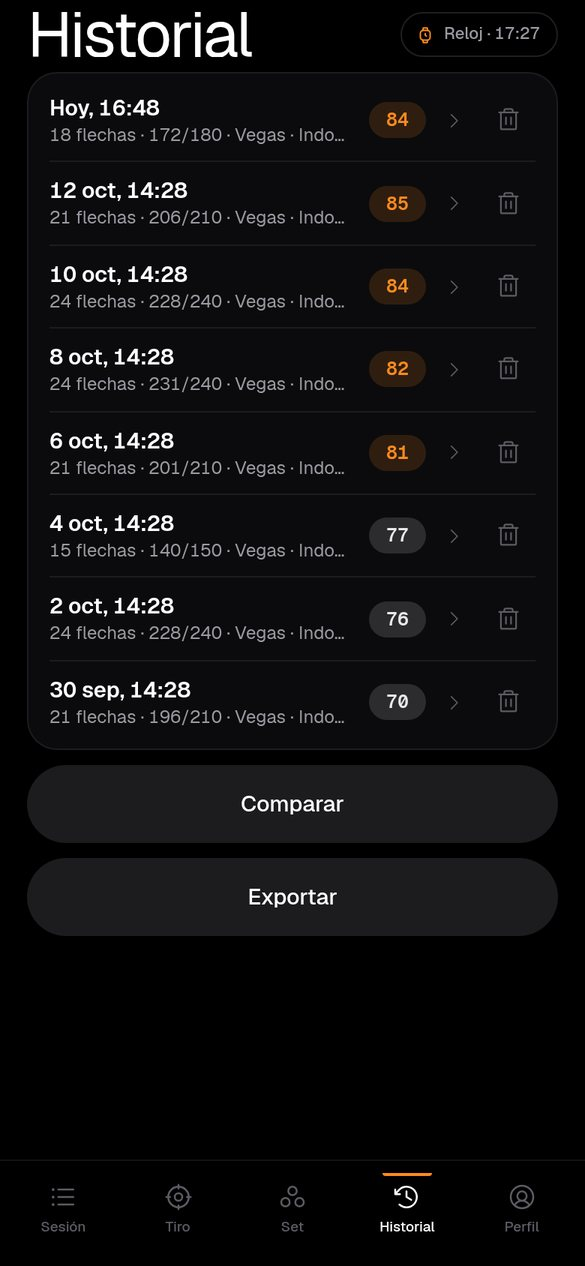
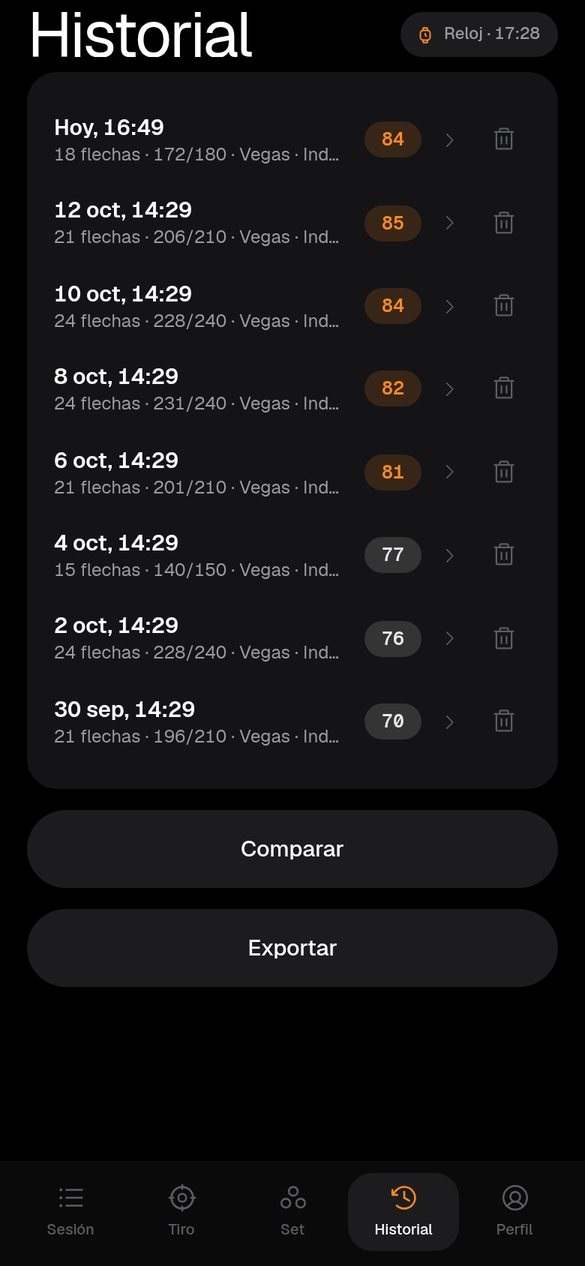
ArcheryWatch: nuevo estilo — superficies planas, acento solo en datos, etiquetas en texto normal, chips en pastilla y barra inferior con pastilla activa — 4.61 (119)

diff --git a/mobile/index.html b/mobile/index.html
@@ -493,6 +493,37 @@
     header h1 { font-size:37px; }
     .mrow > div, .top3 > div { padding:10px 8px; }
   }
+
+  /* ===== Restyle: superficies planas, acento solo en datos clave ===== */
+  :root { --surface:#141416; --surface-2:#1c1c1e; --surface-3:#242427; --line:transparent; --line-2:rgba(255,255,255,.08);
+          --glow:transparent; --acc-line:transparent; --acc-soft:rgba(255,138,31,.14); }
+  .card, .target, .metrics, .mrow, .top3, #tip, #setList details, .setModes, #askModal .ask { border:none !important; border-radius:20px !important; box-shadow:none !important; }
+  main { gap:14px; }
+  .card, .target { padding:18px; }
+  .mrow > div, .top3 > div { border:none !important; padding:16px 14px; }
+  .lbl, .caption, .tclock, .tl span, .sessbars small, #sessionScoreMore summary, .cropPanel p { text-transform:none !important; letter-spacing:0 !important; font-size:12px !important; color:var(--txt-2); }
+  .dateRow small { text-transform:none; letter-spacing:0; font-size:12px; }
+  #setList { gap:10px; }
+  #setList details[open]::before { display:none; }
+  #setList details[open] { background:var(--surface); }
+  .trendRow { border-top:none; }
+  .setbar button, .tracebar button, .modeSeg button, .pickScope button, .scoreSlots button { border-radius:999px; border-color:transparent !important; background:var(--surface-2); }
+  .setbar button.sel, .tracebar button.sel, .modeSeg button.on, .pickScope button.on, .scoreSlots button.on { background:var(--acc-soft); color:var(--acc); }
+  #link, #returnCurrent { border-color:transparent; background:var(--surface-2); }
+  #live { box-shadow:none; }
+  #live::before { box-shadow:none; }
+  .sessbars i.last { box-shadow:none; }
+  nav { border-top:none; background:#0a0a0b; padding:8px 10px max(10px,env(safe-area-inset-bottom)); }
+  nav button { position:relative; gap:4px; padding:6px 0; border-radius:16px; font-size:10px; color:var(--txt-3); }
+  nav button svg { width:21px; height:21px; }
+  nav button svg path { stroke:currentColor; stroke-width:0; }
+  nav button.sel { color:var(--txt); background:var(--surface-2); }
+  nav button.sel svg { color:var(--acc); }
+  nav button.sel::before { display:none; }
+  .scorepad { gap:6px; }
+  .scorepad button { border:none; border-radius:14px; }
+  .scorepad button.on { background:var(--acc-soft); }
+  .scoreSlots button { border:none; border-radius:14px; }
 </style>
 </head>
 <body>

diff --git a/mobile/sw.js b/mobile/sw.js
@@ -1,5 +1,5 @@
 // ArcheryWatch service worker: app shell cache-first, sesiones network-first.
-const C = 'aw-v123';
+const C = 'aw-v125';
 self.addEventListener('install', e => { self.skipWaiting(); e.waitUntil(caches.open(C).then(c =>
   c.addAll(['./', './index.html', './session-model.js', './trace-geom.js', './backup.js', './score.js', './compare.js', './goals.js', './training.js', './studio.js', './manifest.json', './icon-192.png', './icon-512.png', './fonts/Geist-Variable.woff2', './fonts/GeistMono-Variable.woff2', './fonts/BarlowCondensed-600.woff2', './photos/campo.js', './photos/diana.js', './photos/visor.js']))); });
 self.addEventListener('activate', e => e.waitUntil(caches.keys().then(ks =>

diff --git a/android/src/com/archerywatch/app/LiveService.java b/android/src/com/archerywatch/app/LiveService.java
@@ -185,7 +185,7 @@ public class LiveService extends Service {
         Map<String,Object> values=new java.util.HashMap<>();values.put("status",STATUS);
         values.put("pending",inbox==null?0:inbox.size());values.put("commands",outbox==null?0:outbox.size());
         values.put("connected", STATUS != null && STATUS.contains("listo"));
-        values.put("version",117);
+        values.put("version",119);
         if(instance!=null){values.put("receivedAt",instance.diagnostics.getLong("receivedAt",0));values.put("kind",instance.diagnostics.getString("kind",""));}
         return MainActivity.toJson(values);
     }
